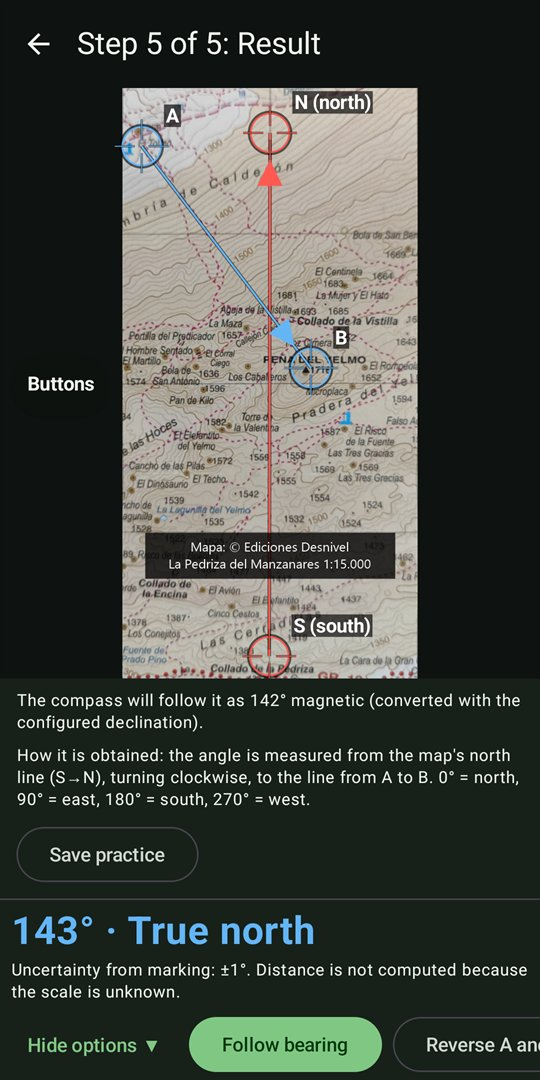
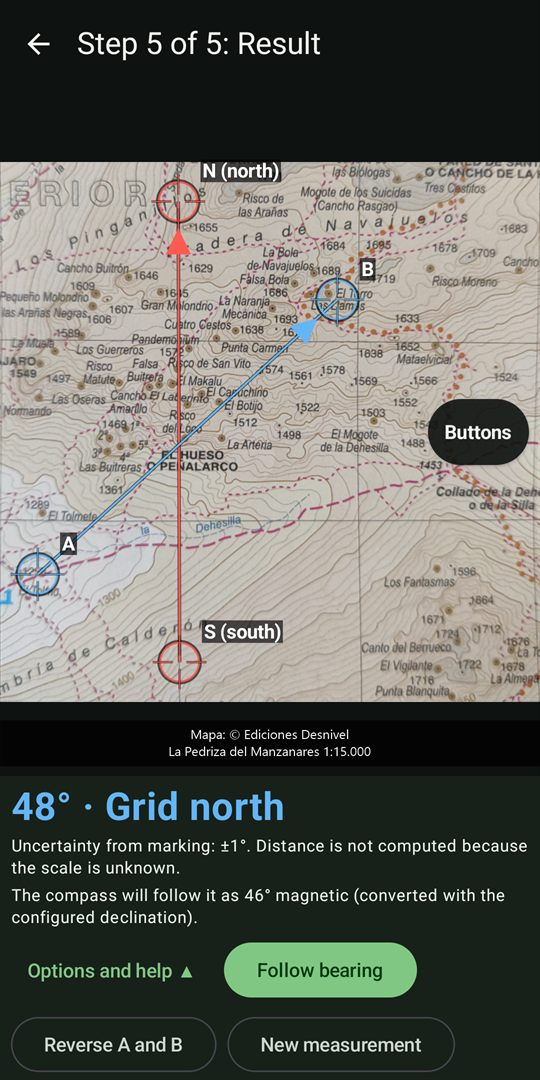
Orienta AR pages: Bearings screenshot renewed from 0.6.8 (ES 53°, EN 48° grid north), alt text updated, cache-busting query

diff --git a/orientaar/index.html b/orientaar/index.html
@@ -78,7 +78,7 @@
   <li><figure><img loading="lazy" src="/assets/orientaar/shots/es-1-home-360.jpg" srcset="/assets/orientaar/shots/es-1-home-360.jpg 360w, /assets/orientaar/shots/es-1-home-540.jpg 540w" sizes="(max-width: 640px) 62vw, 180px" width="360" height="720" alt="Pantalla de inicio con los cuatro modos: Brújula, Mapa AR, Rumbos y Academia."><figcaption><b>Cuatro modos</b>Brújula, Mapa AR, Rumbos y Academia.</figcaption></figure></li>
   <li><figure><img loading="lazy" src="/assets/orientaar/shots/es-2-compass-360.jpg" srcset="/assets/orientaar/shots/es-2-compass-360.jpg 360w, /assets/orientaar/shots/es-2-compass-540.jpg 540w" sizes="(max-width: 640px) 62vw, 180px" width="360" height="720" alt="Brújula marcando 29° noreste con el indicador «Lectura estable»."><figcaption><b>Brújula</b>Con indicador de calidad: si la lectura no es fiable, lo dice.</figcaption></figure></li>
   <li><figure><img loading="lazy" src="/assets/orientaar/shots/es-5-mapar-360.jpg" srcset="/assets/orientaar/shots/es-5-mapar-360.jpg 360w, /assets/orientaar/shots/es-5-mapar-540.jpg 540w" sizes="(max-width: 640px) 62vw, 180px" width="360" height="720" alt="Mapa AR: un mapa de papel visto con la cámara, con líneas guía azules y una flecha roja hacia el norte; abajo, «Guía activa · inclinación 1° · Norte de cuadrícula −0,6°»."><figcaption><b>Mapa AR</b>Orienta tu mapa de papel con la cámara.</figcaption></figure></li>
-  <li><figure><img loading="lazy" src="/assets/orientaar/shots/es-6-bearings-360.jpg" srcset="/assets/orientaar/shots/es-6-bearings-360.jpg 360w, /assets/orientaar/shots/es-6-bearings-540.jpg 540w" sizes="(max-width: 640px) 62vw, 180px" width="360" height="720" alt="Rumbos: foto de un mapa con la línea norte-sur y los puntos A y B marcados; resultado 80° respecto al norte de cuadrícula, con incertidumbre de ±1° y el botón «Seguir rumbo»."><figcaption><b>Rumbos</b>Mide el rumbo entre dos puntos sobre una foto del mapa.</figcaption></figure></li>
+  <li><figure><img loading="lazy" src="/assets/orientaar/shots/es-6-bearings-360.jpg?v=20261105" srcset="/assets/orientaar/shots/es-6-bearings-360.jpg?v=20261105 360w, /assets/orientaar/shots/es-6-bearings-540.jpg?v=20261105 540w" sizes="(max-width: 640px) 62vw, 180px" width="360" height="720" alt="Rumbos: foto de un mapa con la línea norte-sur y los puntos A y B marcados; resultado 53° respecto al norte de cuadrícula (52° magnético en la brújula), con incertidumbre de ±1° y el botón «Seguir rumbo»."><figcaption><b>Rumbos</b>Mide el rumbo entre dos puntos sobre una foto del mapa.</figcaption></figure></li>
   <li><figure><img loading="lazy" src="/assets/orientaar/shots/es-3-academy-360.jpg" srcset="/assets/orientaar/shots/es-3-academy-360.jpg 360w, /assets/orientaar/shots/es-3-academy-540.jpg 540w" sizes="(max-width: 640px) 62vw, 180px" width="360" height="720" alt="Lista de cursos de la Academia con su progreso."><figcaption><b>Academia</b>Seis cursos para aprender desde cero.</figcaption></figure></li>
   <li><figure><img loading="lazy" src="/assets/orientaar/shots/es-4-exercise-360.jpg" srcset="/assets/orientaar/shots/es-4-exercise-360.jpg 360w, /assets/orientaar/shots/es-4-exercise-540.jpg 540w" sizes="(max-width: 640px) 62vw, 180px" width="360" height="720" alt="Ejercicio: elegir el punto cardinal que indica una flecha sobre la rosa de los vientos."><figcaption><b>Ejercicios</b>Practica con preguntas y pistas.</figcaption></figure></li>
 </ul>

diff --git a/en/orientaar/index.html b/en/orientaar/index.html
@@ -78,7 +78,7 @@
   <li><figure><img loading="lazy" src="/assets/orientaar/shots/en-1-home-360.jpg" srcset="/assets/orientaar/shots/en-1-home-360.jpg 360w, /assets/orientaar/shots/en-1-home-540.jpg 540w" sizes="(max-width: 640px) 62vw, 180px" width="360" height="720" alt="Home screen with the four modes: Compass, Map AR, Bearings and Academy."><figcaption><b>Four modes</b>Compass, Map AR, Bearings and Academy.</figcaption></figure></li>
   <li><figure><img loading="lazy" src="/assets/orientaar/shots/en-2-compass-360.jpg" srcset="/assets/orientaar/shots/en-2-compass-360.jpg 360w, /assets/orientaar/shots/en-2-compass-540.jpg 540w" sizes="(max-width: 640px) 62vw, 180px" width="360" height="720" alt="Compass reading 20° north with the “Stable reading” indicator."><figcaption><b>Compass</b>With a quality indicator: if the reading is unreliable, it says so.</figcaption></figure></li>
   <li><figure><img loading="lazy" src="/assets/orientaar/shots/en-5-mapar-360.jpg" srcset="/assets/orientaar/shots/en-5-mapar-360.jpg 360w, /assets/orientaar/shots/en-5-mapar-540.jpg 540w" sizes="(max-width: 640px) 62vw, 180px" width="360" height="720" alt="Map AR: a paper map seen through the camera, with blue guide lines and a red arrow pointing north; below, “Guide active · tilt 3° · Grid north +0.6°”."><figcaption><b>Map AR</b>Orient your paper map with the camera.</figcaption></figure></li>
-  <li><figure><img loading="lazy" src="/assets/orientaar/shots/en-6-bearings-360.jpg" srcset="/assets/orientaar/shots/en-6-bearings-360.jpg 360w, /assets/orientaar/shots/en-6-bearings-540.jpg 540w" sizes="(max-width: 640px) 62vw, 180px" width="360" height="720" alt="Bearings: photo of a map with the north–south line and points A and B marked; result 143° from true north, with ±1° uncertainty and the “Follow bearing” button."><figcaption><b>Bearings</b>Measure the bearing between two points on a photo of the map.</figcaption></figure></li>
+  <li><figure><img loading="lazy" src="/assets/orientaar/shots/en-6-bearings-360.jpg?v=20261105" srcset="/assets/orientaar/shots/en-6-bearings-360.jpg?v=20261105 360w, /assets/orientaar/shots/en-6-bearings-540.jpg?v=20261105 540w" sizes="(max-width: 640px) 62vw, 180px" width="360" height="720" alt="Bearings: photo of a map with the north–south line and points A and B marked; result 48° from grid north (46° magnetic on the compass), with ±1° uncertainty and the “Follow bearing” button."><figcaption><b>Bearings</b>Measure the bearing between two points on a photo of the map.</figcaption></figure></li>
   <li><figure><img loading="lazy" src="/assets/orientaar/shots/en-3-academy-360.jpg" srcset="/assets/orientaar/shots/en-3-academy-360.jpg 360w, /assets/orientaar/shots/en-3-academy-540.jpg 540w" sizes="(max-width: 640px) 62vw, 180px" width="360" height="720" alt="List of Academy courses with their progress."><figcaption><b>Academy</b>Six courses to learn from scratch.</figcaption></figure></li>
   <li><figure><img loading="lazy" src="/assets/orientaar/shots/en-4-exercise-360.jpg" srcset="/assets/orientaar/shots/en-4-exercise-360.jpg 360w, /assets/orientaar/shots/en-4-exercise-540.jpg 540w" sizes="(max-width: 640px) 62vw, 180px" width="360" height="720" alt="Exercise: choose the cardinal point shown by an arrow on the compass rose."><figcaption><b>Exercises</b>Practise with questions and hints.</figcaption></figure></li>
 </ul>
